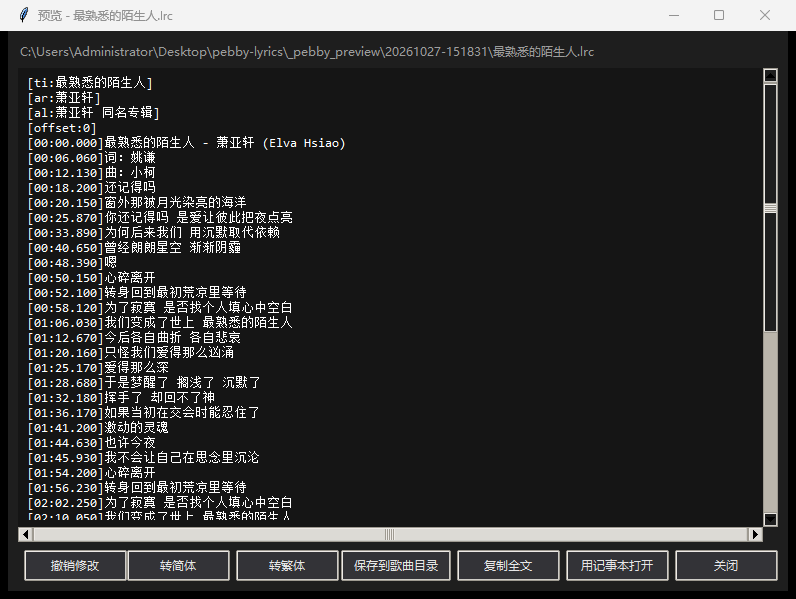
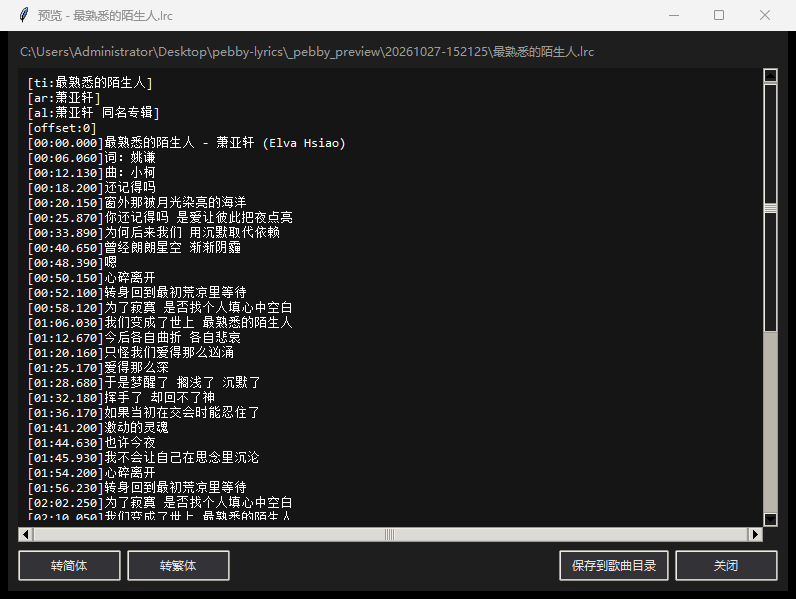
预览查看器精简为四个按钮（v1.9.3）
按反馈去掉“撤销修改”“复制全文”“用记事本打开”：预览窗口现在只保留
转简体 / 转繁体 / 保存到歌曲目录 / 关闭。

顺带清理因此不再使用的 open_with_notepad()、_revert()、_copy()、_open_external()
和 subprocess 导入；README 与 CHANGELOG 同步，查看器截图更新。

diff --git a/lrc_gui.py b/lrc_gui.py
@@ -16,7 +16,6 @@ import os
 from pathlib import Path
 import queue
 import shutil
-import subprocess
 import sys
 import threading
 import tkinter as tk
@@ -169,16 +168,6 @@ class CheckItem(tk.Frame):
                                  fg=GREEN if checked else MUTED)
 
 
-def open_with_notepad(path: Path) -> bool:
-    """用记事本打开文件（预览结果是临时文件，双击关联不一定可用）。"""
-    try:
-        subprocess.Popen(["notepad.exe", str(path)],
-                         creationflags=getattr(subprocess, "CREATE_NO_WINDOW", 0))
-        return True
-    except OSError:
-        return False
-
-
 DISCLAIMER_TEXT = (
     "本工具仅供个人学习与自用。\n"
     "歌词内容版权归原权利人所有。\n"
@@ -256,7 +245,6 @@ class TextViewer(tk.Toplevel):
         self.on_saved = on_saved
         self.encoding = encoding
         self.content = content
-        self.original = content
         self.editable = save_path is not None
 
         wrap = ttk.Frame(self, padding=10)
@@ -285,16 +273,9 @@ class TextViewer(tk.Toplevel):
         bar = ttk.Frame(wrap)
         bar.grid(row=3, column=0, columnspan=2, sticky="ew", pady=(8, 0))
         ttk.Button(bar, text="关闭", command=self.destroy).pack(side="right")
-        if path is not None:
-            ttk.Button(bar, text="用记事本打开",
-                       command=self._open_external).pack(side="right", padx=(0, 6))
-        ttk.Button(bar, text="复制全文",
-                   command=self._copy).pack(side="right", padx=(0, 6))
         if self.editable:
             self.save_button = ttk.Button(bar, text="保存到歌曲目录", command=self._save)
             self.save_button.pack(side="right", padx=(0, 6))
-            ttk.Button(bar, text="撤销修改",
-                       command=self._revert).pack(side="left", padx=(6, 0))
             ttk.Button(bar, text="转简体",
                        command=lambda: self._convert("simplified")).pack(side="left")
             ttk.Button(bar, text="转繁体",
@@ -318,18 +299,6 @@ class TextViewer(tk.Toplevel):
             return
         self.text.edit_modified(False)
         self.title(f"{self.base_title} · 已修改（未保存）")
-
-    def _copy(self) -> None:
-        self.clipboard_clear()
-        self.clipboard_append(self._current_text())
-
-    def _open_external(self) -> None:
-        if self.path is not None and not open_with_notepad(self.path):
-            messagebox.showerror(APP_TITLE, f"系统不允许启动记事本，可以直接看这个窗口里的内容。\n{self.path}")
-
-    def _revert(self) -> None:
-        self._set_content(self.original)
-        self.title(self.base_title)
 
     def _convert(self, form: str) -> None:
         """只在预览窗口提供：转完可以继续改或直接保存。"""

diff --git a/version.py b/version.py
@@ -5,4 +5,4 @@ GUI 标题、`--version`、更新检查和打包脚本都从这里读，
 避免界面、exe 名称和 GitHub tag 三处写死后互相对不上。
 """
 
-__version__ = "1.9.2"
+__version__ = "1.9.3"

diff --git a/README.md b/README.md
@@ -76,7 +76,7 @@ cd pebby-lyrics
 - 预览目录**优先放在 exe 旁边**，避免临时文件混进音乐库；exe 目录不可写时再退到音乐目录下
 - 日志里每条结果后面有可点击的“预览文件：xxx.lrc（点击预览）”，点开是应用内查看器
 - 查看器左下角有 **“保存到歌曲目录”**：觉得这份歌词可以，直接落盘到对应歌曲同目录（覆盖前会确认）；它只是保存，不计入“成功”统计
-- 预览内容**可以直接改字**：觉得某句歌词不对，光标点进去改就行，保存的是改完的版本；保存前会检查有没有行不是 `[时间轴]`/`[元数据]` 格式，有就先提醒；点 **“撤销修改”** 回到刚生成的内容
+- 预览内容**可以直接改字**：觉得某句歌词不对，光标点进去改就行，保存的是改完的版本；保存前会检查有没有行不是 `[时间轴]`/`[元数据]` 格式，有就先提醒
 - 同一处还有 **转简体 / 转繁体**：预览时觉得文字形态不合适，可以当场转，再点保存；标题会标出“已转繁体（未保存）”，保存时按预览原来的编码写盘（GBK 存不下会问你是否改用 UTF-8）
 - 开始运行时会打印一行“预览文件会写到 …（点击复制路径）”，点一下把路径复制到剪贴板
 - **关闭程序时自动删除本次预览目录**（异常退出留下的可以手动删）

diff --git a/CHANGELOG.md b/CHANGELOG.md
@@ -2,6 +2,10 @@
 
 日期以开题为准，版本号对应 GitHub Release 的 tag。
 
+## v1.9.3
+
+- 预览查看器精简按钮：去掉“撤销修改”“复制全文”“用记事本打开”，只保留转简体 / 转繁体 / 保存到歌曲目录 / 关闭
+
 ## v1.9.2
 
 - 预览查看器里的歌词可以直接编辑：改完点保存写的就是修改后的内容，另加“撤销修改”还原到刚生成的样子
